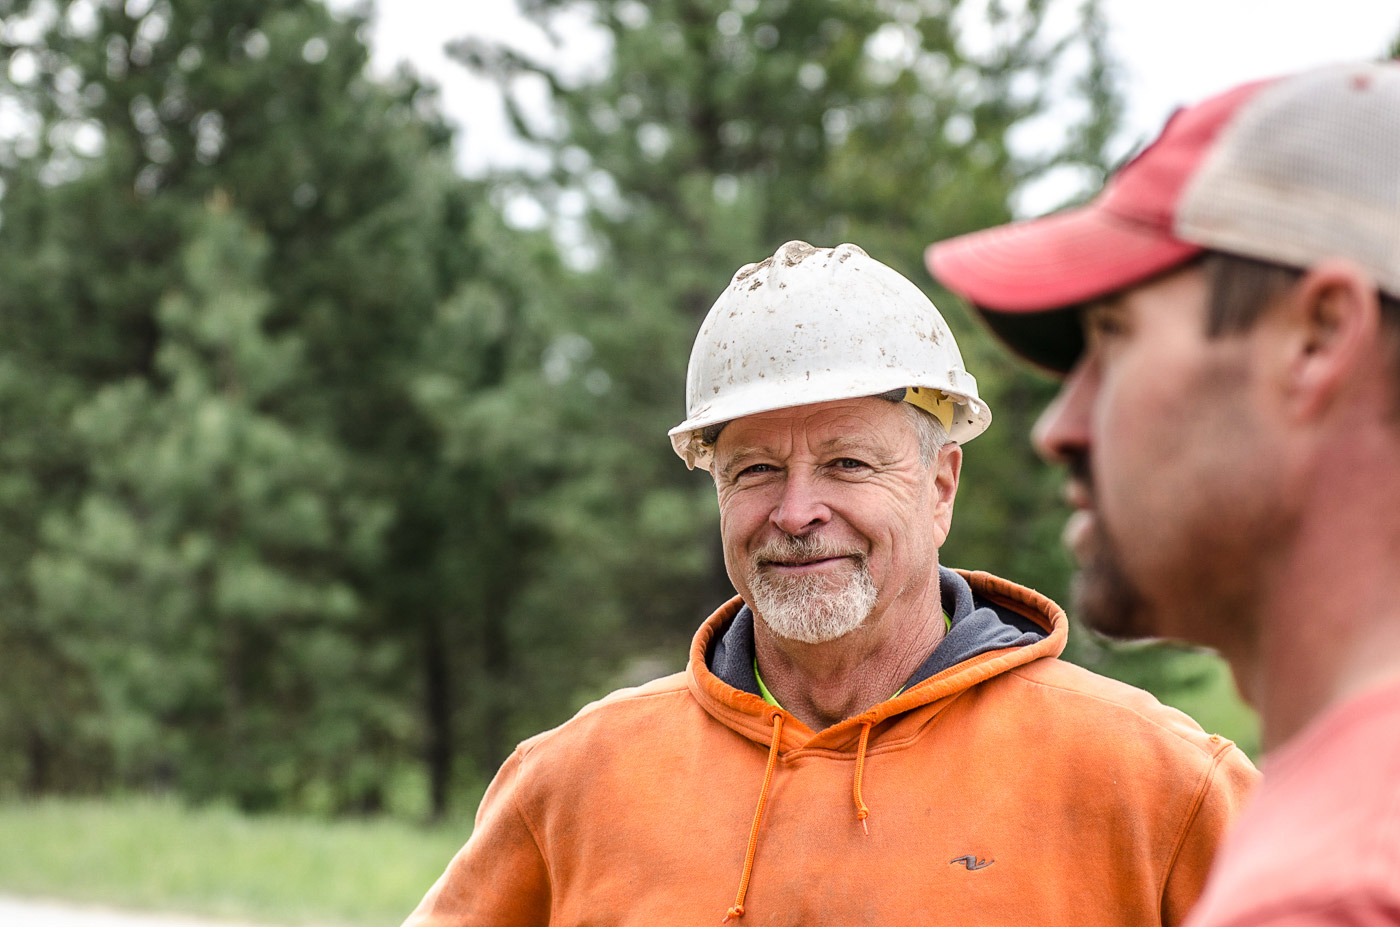
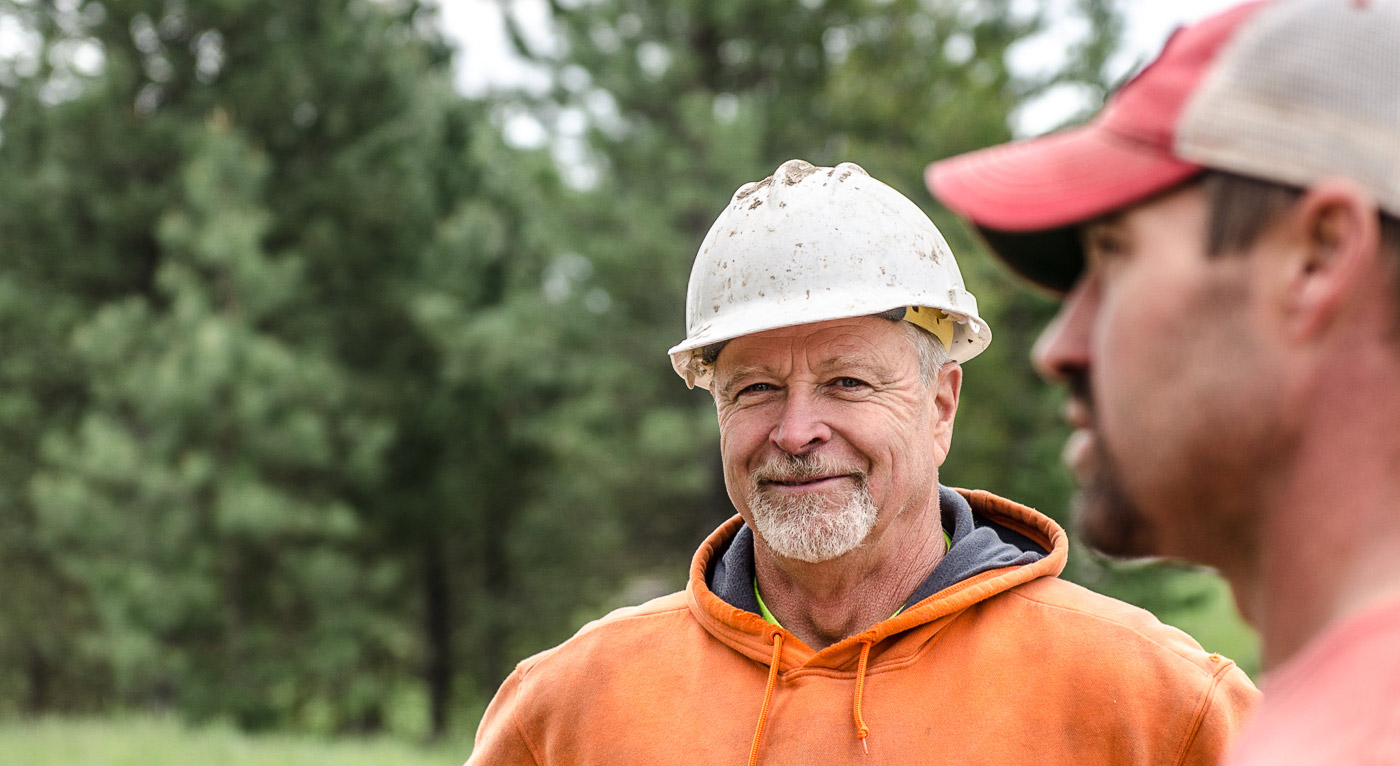
updated services

diff --git a/services.html b/services.html
@@ -90,7 +90,7 @@
 	</div>
 
 	<!-- end:fh5co-header -->
-	<div class="fh5co-parallax" style="background-image: url(images/work-images/RML_day2-32.jpg);" data-stellar-background-ratio="0.5">
+	<div class="fh5co-parallax" style="background-image: url(images/work-images/RML-15.jpg);" data-stellar-background-ratio="0.5">
 		<div class="overlay"></div>
 		<div class="container">
 			<div class="row">
@@ -116,7 +116,7 @@
 				<nav class="tabs-nav">
 					<a href="#" class="active" data-tab="tab1">
 						<span class="jdo-small-image"><img src="images/rml-icons/Trenchless_Technology_sm.svg" alt="Trenchless Technology" width="60" border="0"></span>
-						<span>Trehnchless</span>
+						<span>Trenchless</span>
 					</a>
 					<a href="#" data-tab="tab2">
 						<span class="jdo-small-image"><img src="images/rml-icons/Horizontal_Directional_Drilling_sm.svg" alt="Horizontal Directional Drilling" width="60" border="0"></span>
